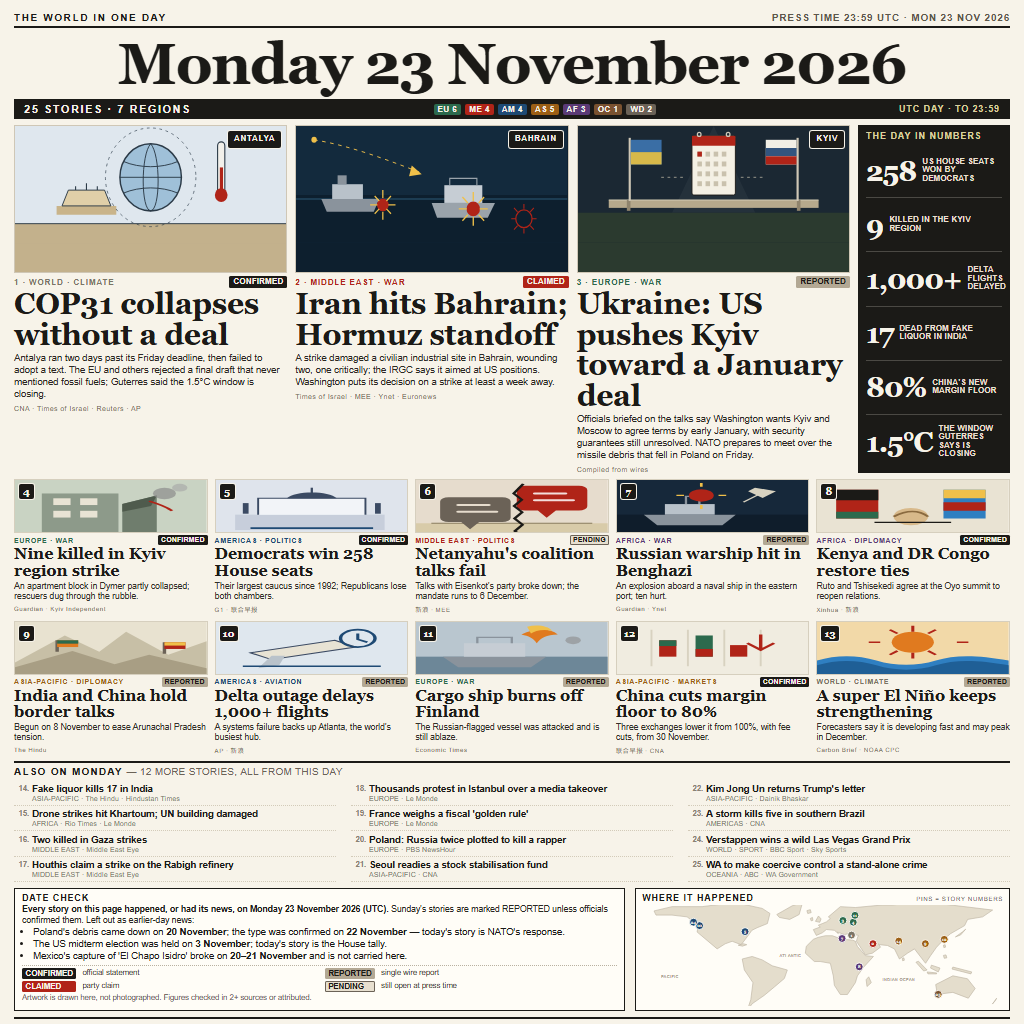
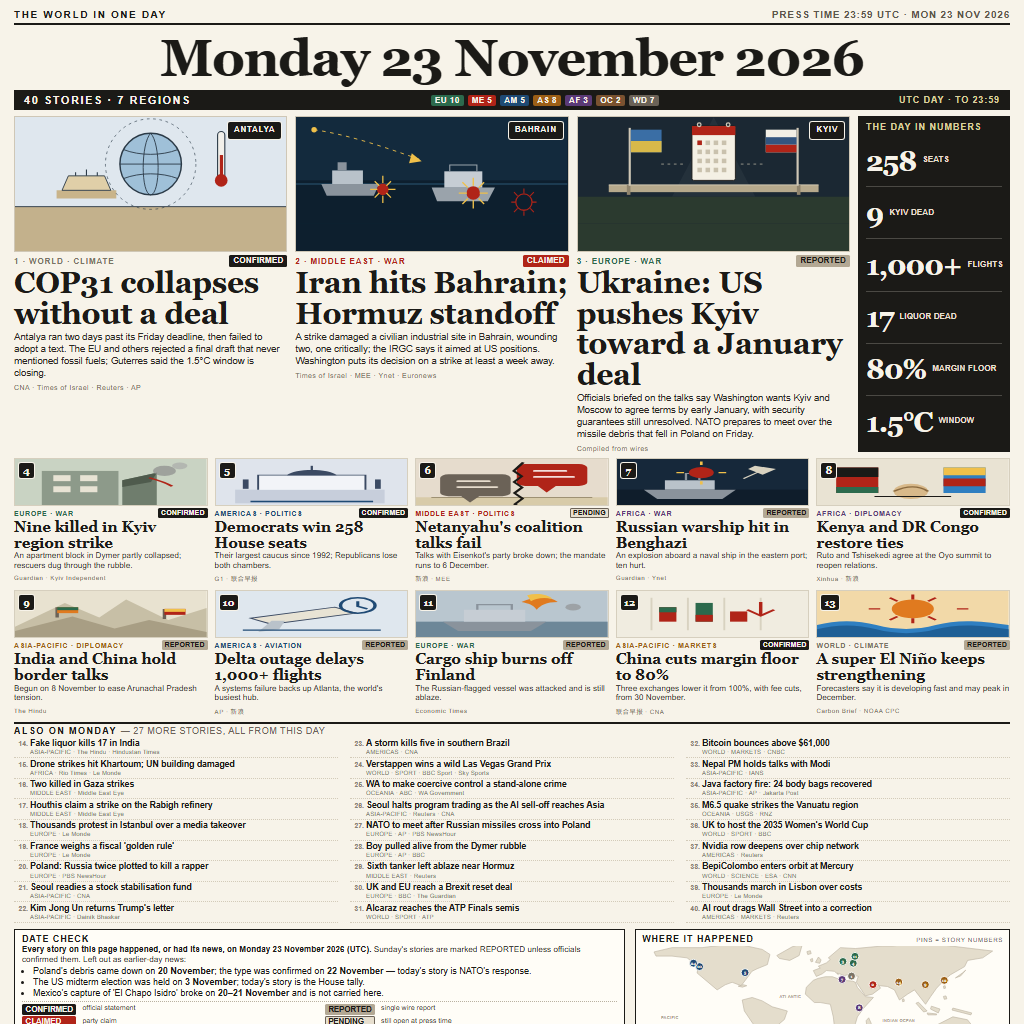
news-image-20261123: 40-story edition - 40 stories across 7 regions (EU 10, ME 5, AM 5, AS 8, AF 3, OC 2, WD 7), 27 briefs, all facts from Monday 23 November 2026

diff --git a/design.html b/design.html
@@ -13,7 +13,7 @@
     color: #1b1a17; -webkit-font-smoothing: antialiased;
   }
   .page {
-    width: 1024px; height: 1024px; padding: 12px 14px 10px;
+    width: 1024px; height: 1024px; padding: 9px 14px 7px;
     display: flex; flex-direction: column; gap: 6px;
     background: #f7f3e9;
   }
@@ -28,7 +28,7 @@
   .masthead { text-align: center; padding: 1px 0 0; }
   .masthead h1 {
     margin: 0; font-family: Georgia, "Times New Roman", serif;
-    font-size: 58px; line-height: 1.0; letter-spacing: -1.4px; font-weight: 700;
+    font-size: 52px; line-height: 1.0; letter-spacing: -1.4px; font-weight: 700;
   }
 
   /* the narrow facts band under the masthead: breadth claim left, scope right */
@@ -54,7 +54,7 @@
   /* first row: three illustrated leads + the day in numbers */
   .row1 { display: grid; grid-template-columns: 1fr 1fr 1fr 152px; gap: 8px; }
   .lead { display: flex; flex-direction: column; min-width: 0; }
-  .lead .art { height: 148px; border: 1px solid #cfc7b6; position: relative; }
+  .lead .art { height: 136px; border: 1px solid #cfc7b6; position: relative; }
   .lead.wo .art { background: #c3b18c; }
   .lead.me .art { background: #0d1f2e; }
   .lead.eu .art { background: #2b3a2f; }
@@ -109,7 +109,7 @@
   /* rows 2–3: ten small picture cards, five across */
   .cards { display: grid; grid-template-columns: repeat(5, 1fr); gap: 7px; }
   .card { display: flex; flex-direction: column; min-width: 0; }
-  .card .art { height: 54px; border: 1px solid #d6cfbe; position: relative; }
+  .card .art { height: 48px; border: 1px solid #d6cfbe; position: relative; }
   .card .art svg { display: block; width: 100%; height: 100%; }
   .card .num {
     position: absolute; left: 4px; top: 4px; z-index: 2;
@@ -121,32 +121,32 @@
   .card .k { display: flex; justify-content: space-between; align-items: center; gap: 3px;
     font-size: 7px; letter-spacing: .09em; font-weight: 700; color: var(--c); margin: 2px 0 1px; }
   .card .k .chip { font-size: 7px; letter-spacing: .02em; padding: 0 3px; height: 10px; line-height: 10px; border-radius: 1.5px; }
-  .card h3 { margin: 0 0 1px; font-family: Georgia, serif; font-size: 16px; line-height: 1.04; font-weight: 700; }
-  .card p { margin: 0; font-size: 8.6px; line-height: 1.18; color: #33302a; }
+  .card h3 { margin: 0 0 1px; font-family: Georgia, serif; font-size: 15px; line-height: 1.04; font-weight: 700; }
+  .card p { margin: 0; font-size: 8.2px; line-height: 1.16; color: #33302a; }
   .card .src { font-size: 6.4px; padding-top: 1px; }
 
   /* ALSO: twelve one-liners in three columns */
-  .also { border-top: 2px solid #1b1a17; padding-top: 3px; }
-  .also h4 { margin: 0 0 3px; font-size: 9.5px; letter-spacing: .16em; font-weight: 700; }
+  .also { border-top: 2px solid #1b1a17; padding-top: 2px; }
+  .also h4 { margin: 0 0 2px; font-size: 9px; letter-spacing: .16em; font-weight: 700; }
   .also h4 em { font-style: normal; font-weight: 400; letter-spacing: .06em; color: #6b6257; }
-  .also-cols { columns: 3; column-gap: 15px; }
-  .ab { display: grid; grid-template-columns: 15px 1fr; gap: 3px; padding: 2.4px 0;
+  .also-cols { columns: 3; column-gap: 12px; }
+  .ab { display: grid; grid-template-columns: 14px 1fr; gap: 2px; padding: 1.35px 0;
     border-bottom: 1px dotted #d3cbb9; break-inside: avoid; }
-  .ab .n { font-size: 7.5px; font-weight: 700; color: #8a8274; text-align: right; padding-top: 1px; }
+  .ab .n { font-size: 7px; font-weight: 700; color: #8a8274; text-align: right; padding-top: 1px; }
   .ab .n::after { content: "."; }
-  .ab .t { font-size: 9.5px; line-height: 1.16; font-weight: 700; }
-  .ab .t i { display: block; font-style: normal; font-size: 6.6px; letter-spacing: .05em; color: #857d6f; font-weight: 400; margin-top: 1px; }
+  .ab .t { font-size: 8.6px; line-height: 1.13; font-weight: 700; }
+  .ab .t i { display: block; font-style: normal; font-size: 5.9px; letter-spacing: .04em; color: #857d6f; font-weight: 400; margin-top: .5px; }
 
   .bottom { display: grid; grid-template-columns: 1.55fr .95fr; gap: 10px; }
   .panel { border: 1.5px solid #1b1a17; padding: 4px 7px 5px; background: #fffdf7; }
   .panel h5 { margin: 0 0 1px; font-size: 8.5px; letter-spacing: .14em; font-weight: 700; }
-  .datecheck p { margin: 0; font-size: 8.6px; line-height: 1.24; color: #2b2823; }
+  .datecheck p { margin: 0; font-size: 8.2px; line-height: 1.22; color: #2b2823; }
   .datecheck b { font-weight: 700; color: #1b1a17; }
   .datecheck ul { margin: 1px 0 0; padding-left: 11px; }
-  .datecheck li { font-size: 9.6px; line-height: 1.24; }
+  .datecheck li { font-size: 9px; line-height: 1.22; }
   .legend {
-    margin-top: 3px; padding-top: 2px; border-top: 1px dotted #b9b1a0;
-    font-size: 7.6px; line-height: 1.12; color: #3b372f;
+    margin-top: 2px; padding-top: 2px; border-top: 1px dotted #b9b1a0;
+    font-size: 7.1px; line-height: 1.1; color: #3b372f;
     display: grid; grid-template-columns: repeat(2, auto 1fr); gap: 1.5px 6px; align-items: center;
   }
   .legend .note { grid-column: 1 / -1; margin-top: 1px; color: #6b6257; }
@@ -184,9 +184,9 @@
   </div>
 
   <div class="band">
-    <span>25 STORIES &middot; 7 REGIONS</span>
+    <span>40 STORIES &middot; 7 REGIONS</span>
     <span class="regions">
-      <b class="eu">EU 6</b><b class="me">ME 4</b><b class="am">AM 4</b><b class="as">AS 5</b><b class="af">AF 3</b><b class="oc">OC 1</b><b class="wd">WD 2</b>
+      <b class="eu">EU 10</b><b class="me">ME 5</b><b class="am">AM 5</b><b class="as">AS 8</b><b class="af">AF 3</b><b class="oc">OC 2</b><b class="wd">WD 7</b>
     </span>
     <span class="scope">UTC DAY &middot; TO 23:59</span>
   </div>
@@ -288,12 +288,12 @@
 
     <div class="nums">
       <h5>THE DAY IN NUMBERS</h5>
-      <div class="num-row"><b>258</b><span>US House seats won by Democrats</span></div>
-      <div class="num-row"><b>9</b><span>killed in the Kyiv region</span></div>
-      <div class="num-row"><b>1,000+</b><span>Delta flights delayed</span></div>
-      <div class="num-row"><b>17</b><span>dead from fake liquor in India</span></div>
-      <div class="num-row"><b>80%</b><span>China's new margin floor</span></div>
-      <div class="num-row"><b>1.5&deg;C</b><span>the window Guterres says is closing</span></div>
+      <div class="num-row"><b>258</b><span>SEATS</span></div>
+      <div class="num-row"><b>9</b><span>KYIV DEAD</span></div>
+      <div class="num-row"><b>1,000+</b><span>FLIGHTS</span></div>
+      <div class="num-row"><b>17</b><span>LIQUOR DEAD</span></div>
+      <div class="num-row"><b>80%</b><span>MARGIN FLOOR</span></div>
+      <div class="num-row"><b>1.5&deg;C</b><span>WINDOW</span></div>
     </div>
 
   </div>
@@ -493,7 +493,7 @@
   </section>
 
   <section class="also">
-    <h4>ALSO ON MONDAY <em>&mdash; 12 MORE STORIES, ALL FROM THIS DAY</em></h4>
+    <h4>ALSO ON MONDAY <em>&mdash; 27 MORE STORIES, ALL FROM THIS DAY</em></h4>
     <div class="also-cols">
       <div class="ab"><div class="n">14</div><div class="t">Fake liquor kills 17 in India <i>ASIA-PACIFIC &middot; The Hindu &middot; Hindustan Times</i></div></div>
       <div class="ab"><div class="n">15</div><div class="t">Drone strikes hit Khartoum; UN building damaged <i>AFRICA &middot; Rio Times &middot; Le Monde</i></div></div>
@@ -507,6 +507,21 @@
       <div class="ab"><div class="n">23</div><div class="t">A storm kills five in southern Brazil <i>AMERICAS &middot; CNA</i></div></div>
       <div class="ab"><div class="n">24</div><div class="t">Verstappen wins a wild Las Vegas Grand Prix <i>WORLD &middot; SPORT &middot; BBC Sport &middot; Sky Sports</i></div></div>
       <div class="ab"><div class="n">25</div><div class="t">WA to make coercive control a stand-alone crime <i>OCEANIA &middot; ABC &middot; WA Government</i></div></div>
+      <div class="ab"><div class="n">26</div><div class="t">Seoul halts program trading as the AI sell-off reaches Asia <i>ASIA-PACIFIC &middot; Reuters &middot; CNA</i></div></div>
+      <div class="ab"><div class="n">27</div><div class="t">NATO to meet after Russian missiles cross into Poland <i>EUROPE &middot; AP &middot; PBS NewsHour</i></div></div>
+      <div class="ab"><div class="n">28</div><div class="t">Boy pulled alive from the Dymer rubble <i>EUROPE &middot; AP &middot; BBC</i></div></div>
+      <div class="ab"><div class="n">29</div><div class="t">Sixth tanker left ablaze near Hormuz <i>MIDDLE EAST &middot; Reuters</i></div></div>
+      <div class="ab"><div class="n">30</div><div class="t">UK and EU reach a Brexit reset deal <i>EUROPE &middot; BBC &middot; The Guardian</i></div></div>
+      <div class="ab"><div class="n">31</div><div class="t">Alcaraz reaches the ATP Finals semis <i>WORLD &middot; SPORT &middot; ATP</i></div></div>
+      <div class="ab"><div class="n">32</div><div class="t">Bitcoin bounces above $61,000 <i>WORLD &middot; MARKETS &middot; CNBC</i></div></div>
+      <div class="ab"><div class="n">33</div><div class="t">Nepal PM holds talks with Modi <i>ASIA-PACIFIC &middot; IANS</i></div></div>
+      <div class="ab"><div class="n">34</div><div class="t">Java factory fire: 24 body bags recovered <i>ASIA-PACIFIC &middot; AP &middot; Jakarta Post</i></div></div>
+      <div class="ab"><div class="n">35</div><div class="t">M6.5 quake strikes the Vanuatu region <i>OCEANIA &middot; USGS &middot; RNZ</i></div></div>
+      <div class="ab"><div class="n">36</div><div class="t">UK to host the 2035 Women's World Cup <i>WORLD &middot; SPORT &middot; BBC</i></div></div>
+      <div class="ab"><div class="n">37</div><div class="t">Nvidia row deepens over chip network <i>AMERICAS &middot; Reuters</i></div></div>
+      <div class="ab"><div class="n">38</div><div class="t">BepiColombo enters orbit at Mercury <i>WORLD &middot; SCIENCE &middot; ESA &middot; CNN</i></div></div>
+      <div class="ab"><div class="n">39</div><div class="t">Thousands march in Lisbon over costs <i>EUROPE &middot; Le Monde</i></div></div>
+      <div class="ab"><div class="n">40</div><div class="t">AI rout drags Wall Street into a correction <i>AMERICAS &middot; MARKETS &middot; Reuters</i></div></div>
     </div>
   </section>
 
